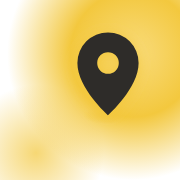
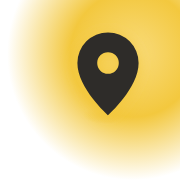
Add files via upload

Changed region(s): [[0.0, 0.5556, 0.5, 1.0]]

diff --git a/index.html b/index.html
@@ -23,7 +23,7 @@
   --bg: #F6F5F1; --surface: #FFFFFF; --ink: #2E2C29; --muted: #5F5C56; --line: #E4E2DC;
   --accent: #2E2C29; --accent-ink: #F6F5F1; --accent-soft: #FBEFC6;
   /* Score scale: one bright state and two shades. Good is butter yellow, Caution is gray, Poor is deep slate. */
-  --green: #F6CE4E; --amber: #9A978F; --red: #1C2430; --none: #C9C6BE;
+  --green: #F6CE4E; --amber: #9A978F; --red: #1C2430; --none: #C9C6BE; --none-ink: #2E2C29;
   --brand: #F6CE4E; --brand-ink: #2E2C29; --wm-light: #6B6862;
   /* Patterns: only Good match is filled (butter); the other quadrants stay quiet */
   --grid: #ECEAE4; --band: rgba(246,206,78,0.5); --flag: #1C2430;
@@ -40,7 +40,7 @@
   :root:not([data-theme="light"]) {
     --bg: #1C1B19; --surface: #262522; --ink: #EDEBE6; --muted: #ABA79F; --line: #3A3835;
     --accent: #F6CE4E; --accent-ink: #1C1B19; --accent-soft: #4A4127;
-    --green: #F6CE4E; --amber: #A5A29A; --red: #4A5568; --none: #5C5955;
+    --green: #F6CE4E; --amber: #A5A29A; --red: #4A5568; --none: #5C5955; --none-ink: #F2F1EC;
     --brand: #F6CE4E; --brand-ink: #2E2C29; --wm-light: #ABA79F;
     --grid: #33312E; --band: rgba(246,206,78,0.35); --flag: #C9D2E3;
     --q-match: #2E2C29; --q-hidden: #ABA79F; --q-despite: #ABA79F; --q-avoid: #ABA79F;
@@ -51,7 +51,7 @@
 :root[data-theme="dark"] {
   --bg: #1C1B19; --surface: #262522; --ink: #EDEBE6; --muted: #ABA79F; --line: #3A3835;
   --accent: #F6CE4E; --accent-ink: #1C1B19; --accent-soft: #4A4127;
-  --green: #F6CE4E; --amber: #A5A29A; --red: #4A5568; --none: #5C5955;
+  --green: #F6CE4E; --amber: #A5A29A; --red: #4A5568; --none: #5C5955; --none-ink: #F2F1EC;
   --brand: #F6CE4E; --brand-ink: #2E2C29; --wm-light: #ABA79F;
   --grid: #33312E; --band: rgba(246,206,78,0.35); --flag: #C9D2E3;
   --q-match: #2E2C29; --q-hidden: #ABA79F; --q-despite: #ABA79F; --q-avoid: #ABA79F;
@@ -196,13 +196,23 @@ table.breakdown td:last-child { text-align: right; font-weight: 700; white-space
 .week-row { display: flex; align-items: center; gap: 12px; padding: 10px 0; border-top: 1px solid var(--line); }
 .week-row .day { width: 92px; flex: none; }
 .week-row .dots { display: flex; flex-wrap: wrap; gap: 6px; align-items: center; }
-.cal { display: grid; grid-template-columns: repeat(7, 1fr); gap: 4px; }
+.cal { display: grid; grid-template-columns: repeat(7, minmax(0, 1fr)); gap: 4px; }
 .cal .hd { font-size: 13px; color: var(--muted); text-align: center; padding-bottom: 4px; }
 .cal .cell { aspect-ratio: 1; border-radius: 10px; background: var(--surface); border: 1px solid var(--line); padding: 4px; display: flex; flex-direction: column; justify-content: space-between; align-items: flex-start; font-size: 13px; cursor: pointer; }
 .cal .cell.blank { visibility: hidden; }
 .cal .cell.today { border-color: var(--accent); border-width: 2px; }
 .cal .cell .dots { display: flex; gap: 3px; flex-wrap: wrap; }
 .cal .cell .dot { width: 8px; height: 8px; }
+.scorechip { display: inline-flex; align-items: center; justify-content: center; min-width: 44px; height: 34px; padding: 0 8px; box-sizing: border-box; border: 0; border-radius: 9px; flex: none; font: inherit; font-weight: 700; font-size: 17px; font-variant-numeric: tabular-nums; background: var(--none); color: var(--none-ink); }
+.scorechip.green { background: var(--green); color: #2E2C29; } .scorechip.yellow { background: var(--amber); color: #2E2C29; } .scorechip.red { background: var(--red); color: #FFFFFF; }
+button.scorechip { cursor: pointer; }
+.week-row .dots { gap: 8px; }
+.cal .cell { min-width: 0; overflow: hidden; aspect-ratio: auto; min-height: 66px; }
+.cal .cell .dots { flex-direction: column; align-items: flex-start; gap: 2px; }
+.cal .cell .scorechip { min-width: 0; height: 17px; padding: 0 3px; border-radius: 4px; font-size: 11px; line-height: 1; }
+.monthhd { margin: 8px 0 4px; font-size: 16px; color: var(--muted); }
+.cal .cell .more { font-size: 11px; color: var(--muted); }
+
 
 /* Bottom navigation */
 .tabbar { position: fixed; left: 0; right: 0; bottom: 0; z-index: 6; background: var(--surface); border-top: 1px solid var(--line); padding-bottom: env(safe-area-inset-bottom, 0px); }
@@ -273,7 +283,7 @@ table.breakdown td:last-child { text-align: right; font-weight: 700; white-space
 <radialGradient id="amb" cx="0.2" cy="0.85" r="0.38"><stop offset="0" stop-color="#F3C83E" stop-opacity="0.72"/><stop offset="1" stop-color="#F3C83E" stop-opacity="0"/></radialGradient>
 <radialGradient id="amg" cx="0.5" cy="0.5" r="0.5"><stop offset="0" stop-color="#F3C83E"/><stop offset="1" stop-color="#F3C83E" stop-opacity="0"/></radialGradient>
 <filter id="amh" x="-50%" y="-50%" width="200%" height="200%"><feGaussianBlur stdDeviation="4"/></filter>
-<clipPath id="amc"><rect width="100" height="100" rx="22"/></clipPath></defs><g clip-path="url(#amc)"><rect width="100" height="100" fill="#FFFFFF"/><rect width="100" height="100" fill="url(#amb)"/><rect width="100" height="100" fill="url(#ama)"/></g><g transform="translate(16 -16)"><ellipse cx="44" cy="80" rx="14" ry="5" fill="url(#amg)" opacity="0.85"/><path d="M44 80s-17-15-17-29a17 17 0 0 1 34 0c0 14-17 29-17 29z M44 57a6 6 0 1 0 0-12 6 6 0 0 0 0 12z" fill="#F3C83E" fill-rule="evenodd" filter="url(#amh)" transform="translate(0 1)"/><path d="M44 80s-17-15-17-29a17 17 0 0 1 34 0c0 14-17 29-17 29z M44 57a6 6 0 1 0 0-12 6 6 0 0 0 0 12z" fill="#2E2C29" fill-rule="evenodd"/></g></svg><div><p class="wordmark">app<span>mospherics</span></p><span class="tagline">READ THE ROOM</span></div></div>
+<clipPath id="amc"><rect width="100" height="100" rx="22"/></clipPath></defs><g clip-path="url(#amc)"><rect width="100" height="100" fill="#FFFFFF"/><rect width="100" height="100" fill="url(#ama)"/></g><g transform="translate(16 -16)"><ellipse cx="44" cy="80" rx="14" ry="5" fill="url(#amg)" opacity="0.85"/><path d="M44 80s-17-15-17-29a17 17 0 0 1 34 0c0 14-17 29-17 29z M44 57a6 6 0 1 0 0-12 6 6 0 0 0 0 12z" fill="#F3C83E" fill-rule="evenodd" filter="url(#amh)" transform="translate(0 1)"/><path d="M44 80s-17-15-17-29a17 17 0 0 1 34 0c0 14-17 29-17 29z M44 57a6 6 0 1 0 0-12 6 6 0 0 0 0 12z" fill="#2E2C29" fill-rule="evenodd"/></g></svg><div><p class="wordmark">app<span>mospherics</span></p><span class="tagline">READ THE ROOM</span></div></div>
     <span class="mode-note" id="modeNote"></span>
   </header>
   <main id="view"></main>
@@ -1165,9 +1175,8 @@ function onboard() {
 function scanListItem(s) {
   const d = new Date(s.timestamp_local), sc = scoreScan(s, state.weights);
   return h('button', { type: 'button', class: 'listitem', onclick: () => go('result', { id: s.scan_id }) },
-    h('span', { class: 'lvlbar ' + sc.yourLight, 'aria-hidden': 'true' }),
-    h('span', { class: 'grow' }, h('span', { class: 'title' }, placeName(s)), h('span', { class: 'sub' }, `${sc.yourScore == null ? 'No score' : lightWord(sc.yourLight)} · ${fmtDay(d, { weekday: 'short', month: 'short', day: 'numeric' })}, ${fmtTime(d)}`)),
-    h('span', { class: 'num', 'aria-label': sc.yourScore == null ? 'No score' : `Your score ${sc.yourScore}, ${lightWord(sc.yourLight)}` }, sc.yourScore == null ? '–' : sc.yourScore));
+    h('span', { class: 'scorechip ' + (sc.yourScore == null ? '' : sc.yourLight), 'aria-label': sc.yourScore == null ? 'No score' : `Your score ${sc.yourScore}, ${lightWord(sc.yourLight)}` }, sc.yourScore == null ? '–' : String(sc.yourScore)),
+    h('span', { class: 'grow' }, h('span', { class: 'title' }, placeName(s)), h('span', { class: 'sub' }, `${sc.yourScore == null ? 'No score' : lightWord(sc.yourLight)} · ${fmtDay(d, { weekday: 'short', month: 'short', day: 'numeric' })}, ${fmtTime(d)}`)));
 }
 routes.home = () => {
   const recent = state.scans.slice().sort((a, b) => new Date(b.timestamp_local) - new Date(a.timestamp_local)).slice(0, 3);
@@ -1641,7 +1650,13 @@ function calendarView(redraw) {
   const shift = dir => { const d = new Date(a); if (tl.mode === 'day') d.setDate(d.getDate() + dir); else if (tl.mode === 'week') d.setDate(d.getDate() + 7 * dir); else d.setMonth(d.getMonth() + dir, 1); tl.anchor = d; redraw(); };
   const light = s => scoreScan(s, state.weights).yourLight;
   let title, body;
-  if (tl.mode === 'day') {
+  if (tl.mode === 'all') {
+    const all = state.scans.slice().sort((x, y) => new Date(y.timestamp_local) - new Date(x.timestamp_local));
+    const groups = [];
+    all.forEach(s => { const d = new Date(s.timestamp_local), k = d.getFullYear() + '-' + d.getMonth(); if (!groups.length || groups[groups.length - 1].k !== k) groups.push({ k, d, list: [] }); groups[groups.length - 1].list.push(s); });
+    body = h('div', { class: 'stack' }, h('p', { class: 'muted small', style: 'margin:0' }, `${plural(all.length, 'scan')}, newest first.`),
+      groups.map(g => h('div', {}, h('h3', { class: 'monthhd' }, fmtDay(g.d, { month: 'long', year: 'numeric' })), h('div', {}, g.list.map(scanListItem)))));
+  } else if (tl.mode === 'day') {
     title = fmtDay(a, { weekday: 'long', month: 'long', day: 'numeric' });
     const list = byDay[dateKey(a)] || [];
     body = list.length ? h('div', {}, list.map(scanListItem)) : h('p', { class: 'muted' }, 'No scans this day.');
@@ -1654,7 +1669,7 @@ function calendarView(redraw) {
       return h('div', { class: 'week-row' },
         h('button', { type: 'button', class: 'linkbtn day', onclick: () => openDay(d) }, fmtDay(d, { weekday: 'short', day: 'numeric' })),
         h('div', { class: 'dots' }, list.length
-          ? list.map(s => h('button', { type: 'button', class: 'dot ' + light(s), 'aria-label': `${placeName(s)}, ${lightWord(light(s))}`, onclick: () => go('result', { id: s.scan_id }) }))
+          ? list.map(s => { const sc = scoreScan(s, state.weights); return h('button', { type: 'button', class: 'scorechip ' + (sc.yourScore == null ? '' : sc.yourLight), 'aria-label': `${placeName(s)}, ${sc.yourScore == null ? 'no score' : `score ${sc.yourScore}, ${lightWord(sc.yourLight)}`}`, onclick: () => go('result', { id: s.scan_id }) }, sc.yourScore == null ? '–' : String(sc.yourScore)); })
           : h('span', { class: 'muted small' }, 'No scans')));
     }));
   } else {
@@ -1667,18 +1682,18 @@ function calendarView(redraw) {
     for (let n = 1; n <= daysIn; n++) {
       const d = new Date(a.getFullYear(), a.getMonth(), n), k = dateKey(d), list = byDay[k] || [];
       cells.push(h('button', { type: 'button', class: 'cell' + (k === todayKey ? ' today' : ''), 'aria-label': `${fmtDay(d, { month: 'long', day: 'numeric' })}, ${plural(list.length, 'scan')}`, onclick: () => openDay(d) },
-        h('span', {}, n), h('span', { class: 'dots' }, list.slice(0, 6).map(s => h('span', { class: 'dot ' + light(s) })))));
+        h('span', {}, n), h('span', { class: 'dots', 'aria-hidden': 'true' }, list.slice(0, list.length > 2 ? 1 : 2).map(s => { const sc = scoreScan(s, state.weights); return h('span', { class: 'scorechip ' + (sc.yourScore == null ? '' : sc.yourLight) }, sc.yourScore == null ? '–' : String(sc.yourScore)); }), list.length > 2 && h('span', { class: 'more' }, '+' + (list.length - 1)))));
     }
     body = h('div', { class: 'cal' }, cells);
   }
   return [
-    h('div', { class: 'tabs', role: 'group', 'aria-label': 'Calendar range' }, ['day', 'week', 'month'].map(m => h('button', { type: 'button', 'aria-pressed': String(tl.mode === m), onclick: () => { tl.mode = m; redraw(); } }, cap(m)))),
-    h('div', { class: 'row spread' },
+    h('div', { class: 'tabs', role: 'group', 'aria-label': 'Calendar range' }, ['day', 'week', 'month', 'all'].map(m => h('button', { type: 'button', 'aria-pressed': String(tl.mode === m), onclick: () => { tl.mode = m; redraw(); } }, cap(m)))),
+    tl.mode !== 'all' && h('div', { class: 'row spread' },
       h('button', { type: 'button', class: 'btn quiet compact', 'aria-label': 'Previous ' + tl.mode, onclick: () => shift(-1) }, '‹'),
       h('h3', { style: 'margin:0;text-align:center;flex:1' }, title),
       h('button', { type: 'button', class: 'btn quiet compact', 'aria-label': 'Next ' + tl.mode, onclick: () => shift(1) }, '›')),
     state.scans.length ? body : h('div', { class: 'panel stack' }, h('p', {}, 'No scans yet. Your first scan will appear here.'), h('div', {}, h('button', { type: 'button', class: 'btn', onclick: () => beginScan() }, 'Start a scan'))),
-    h('p', { class: 'muted small' }, 'Colors show your score, based on your What matters settings. Only you can see your history.')
+    h('p', { class: 'muted small' }, 'Each box shows your score and its level: yellow is Good, gray is Caution, dark slate is Poor. Scores use your What matters settings. Only you can see your history.')
   ];
 }
 
